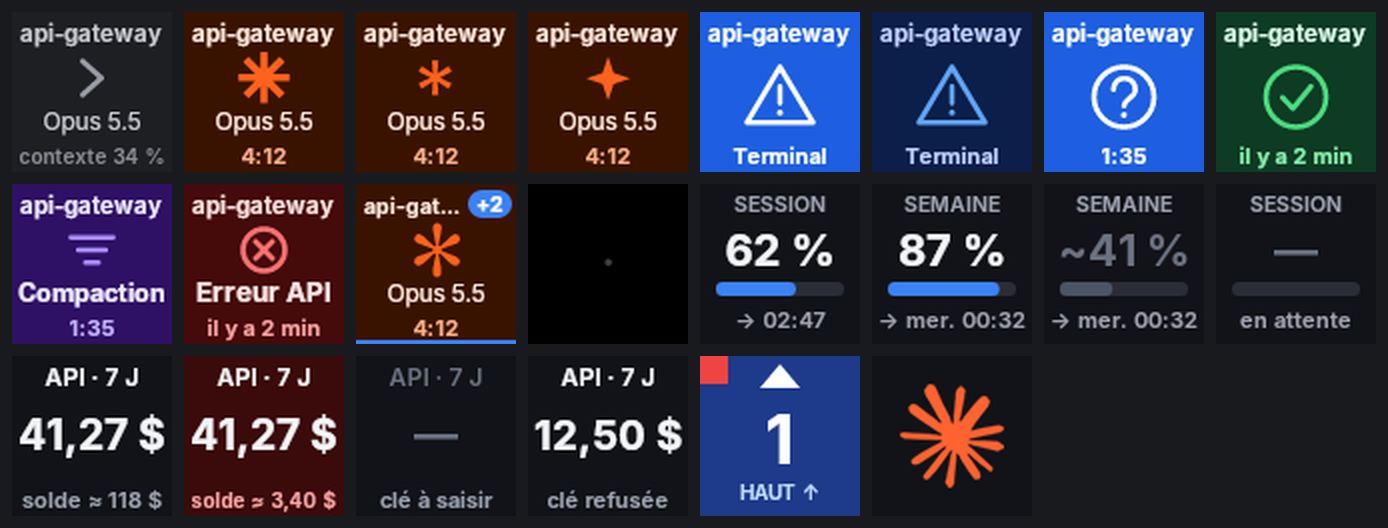
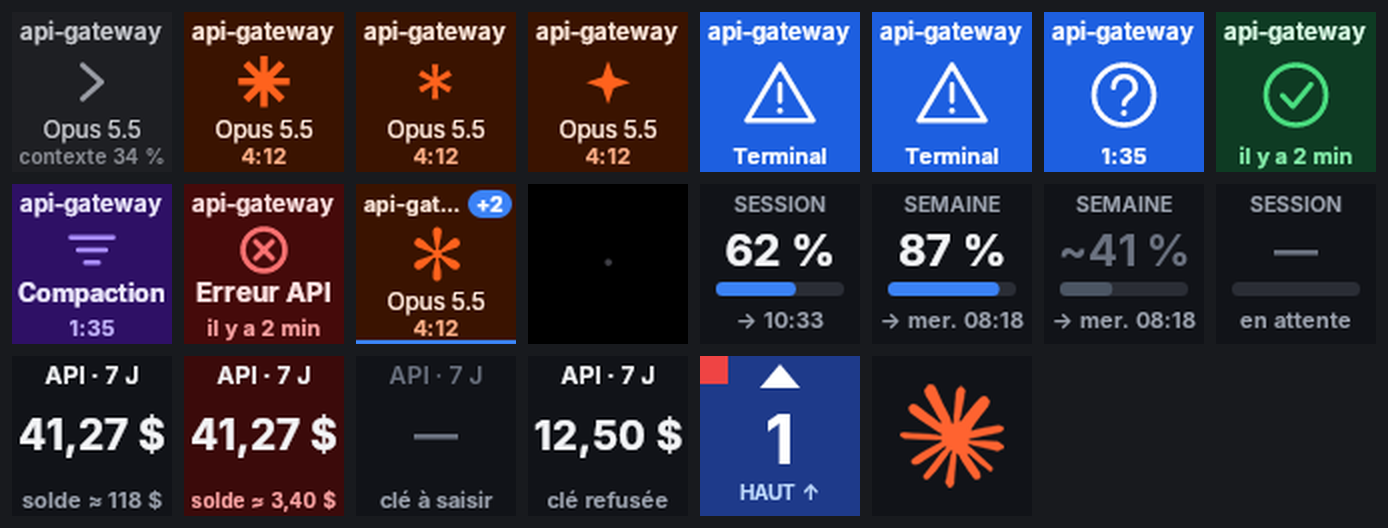
Attente : clignotement limité à 10 s ; espacement des touches (v0.4.3)
- Autoriser / Question : clignotement pendant les 10 premières
  secondes de l'attente, puis bleu vif fixe.
- Nom du modèle rapproché du chrono ; animation et icône descendues de
  2 px pour plus d'air.
- Nom de session remonté de 1,5 px ; icône seule recentrée en
  conséquence.

Claude-Session: https://claude.ai/code/session_01Fx8ktu9DfaPpGyN7FCRNbi

diff --git a/src/ClaudeDeck.Core/Rendering/KeyRenderer.cs b/src/ClaudeDeck.Core/Rendering/KeyRenderer.cs
@@ -72,27 +72,30 @@ public sealed class KeyRenderer : IDisposable
             // Centré s'il tient à taille normale, sinon aligné à gauche (réduit jusqu'à 10,5 px puis tronqué).
             using var probe = new SKFont(_semi, 12f);
             var fits = probe.MeasureText(t) <= titleRight - 4f;
-            DrawText(c, t, _semi, 12f, 10.5f, 4f, titleRight, 15f, v.Foreground, fits ? SKTextAlign.Center : SKTextAlign.Left);
+            DrawText(c, t, _semi, 12f, 10.5f, 4f, titleRight, 13.5f, v.Foreground, fits ? SKTextAlign.Center : SKTextAlign.Left);
         }
 
         // Texte principal : gras par défaut ; graisse normale et plus petit pour le nom du modèle.
         var mainFace = v.MainRegular ? _regular : _bold;
         var mainSize = v.MainRegular ? 12f : 13.5f;
+        // Nom du modèle rapproché du chrono, et animation/icône descendue d'autant : plus d'air autour.
+        var mainBaseline = v.MainRegular ? 63f : 59f;
+        var iconY = v.MainRegular ? 35f : 33f;
         if (v.IconSprite is { } sprite)
         {
-            DrawSprite(c, sprite, 40f, 33f, 28f);
-            if (v.Main is { } m) DrawText(c, m, mainFace, mainSize, 9f, 3f, 77f, 59f, v.Foreground, SKTextAlign.Center);
+            DrawSprite(c, sprite, 40f, iconY, 28f);
+            if (v.Main is { } m) DrawText(c, m, mainFace, mainSize, 9f, 3f, 77f, mainBaseline, v.Foreground, SKTextAlign.Center);
         }
         else if (v.Icon != KeyIcon.None && v.Main is null)
         {
-            // Icône seule (ex. « terminé ») : plus grande, à égale distance du titre (bas des lettres ≈ 18 px)
+            // Icône seule (ex. « terminé ») : plus grande, à égale distance du titre (bas des lettres ≈ 16,5 px)
             // et de la ligne du bas (haut des lettres ≈ 67 px).
-            DrawIcon(c, v.Icon, 40f, 42.5f, 15f, v.Accent, v.SpinnerPhase);
+            DrawIcon(c, v.Icon, 40f, 41.5f, 15f, v.Accent, v.SpinnerPhase);
         }
         else if (v.Icon != KeyIcon.None)
         {
-            DrawIcon(c, v.Icon, 40f, 33f, 10.5f, v.Accent, v.SpinnerPhase);
-            if (v.Main is { } m) DrawText(c, m, mainFace, mainSize, 9f, 3f, 77f, 59f, v.Foreground, SKTextAlign.Center);
+            DrawIcon(c, v.Icon, 40f, iconY, 10.5f, v.Accent, v.SpinnerPhase);
+            if (v.Main is { } m) DrawText(c, m, mainFace, mainSize, 9f, 3f, 77f, mainBaseline, v.Foreground, SKTextAlign.Center);
         }
         else if (v.Main is { } m)
         {

diff --git a/src/ClaudeDeck.Core/Rendering/KeyViewBuilder.cs b/src/ClaudeDeck.Core/Rendering/KeyViewBuilder.cs
@@ -39,6 +39,9 @@ public sealed class KeyViewBuilder
 
     // ───────────────────────────── Sessions ─────────────────────────────
 
+    /// <summary>Durée du clignotement d'une touche en attente (permission, question).</summary>
+    public static readonly TimeSpan BlinkDuration = TimeSpan.FromSeconds(10);
+
     /// <summary>Animation de l'état « travaille ». Null = anneau vectoriel.</summary>
     public SpriteAnimation? WorkingAnimation { get; set; }
 
@@ -54,7 +57,8 @@ public sealed class KeyViewBuilder
         else
         {
             var title = s.DisplayName;
-            var blinkOn = animMs / 500 % 2 == 0; // 1 Hz
+            // Clignotement à 1 Hz pendant les 10 premières secondes d'une attente, puis bleu vif fixe.
+            var blinkOn = now - s.StateSince >= BlinkDuration || animMs / 500 % 2 == 0;
             var phase = (animMs + phaseOffsetMs) % 1000 / 1000.0;
             var sprite = WorkingAnimation?.FrameAt(animMs + phaseOffsetMs);
             view = s.State switch

diff --git a/tests/ClaudeDeck.Tests/RenderingTests.cs b/tests/ClaudeDeck.Tests/RenderingTests.cs
@@ -77,6 +77,10 @@ public class RenderingTests
         var s = new SessionSnapshot("id", "p", null, null, null, SessionState.Waiting, Now, WaitReason.Permission, null, null,
             null, null, 0, null, null, Now, null);
         Assert.NotEqual(b.Session(s, Now, 0).Background, b.Session(s, Now, 500).Background);
+        // Après 10 s d'attente, plus de clignotement : bleu vif fixe.
+        var later = Now.AddSeconds(11);
+        Assert.Equal(b.Session(s, later, 0).Background, b.Session(s, later, 500).Background);
+        Assert.Equal(b.Session(s, Now, 0).Background, b.Session(s, later, 500).Background);
     }
 
     [Theory]

diff --git a/README.md b/README.md
@@ -25,7 +25,7 @@ Une session garde sa touche tant qu'elle reste affichée ; la pastille « +N » 
 |---|---|---|
 | Au repos | gris, invite « > », modèle et remplissage du contexte (« ≈ » si estimé) | `SessionStart`, Échap (`Notification` idle) |
 | Travaille | orange très sombre, astérisque animé (2 s, déphasé d'une touche à l'autre), modèle (« Opus 5.5 ») et durée du tour | `UserPromptSubmit`, `PreToolUse`, `PostToolUse` |
-| **Autoriser / Question** | **bleu clignotant**, icône seule (triangle ou « ? ») | `PermissionRequest`, `Notification` (permission, elicitation), `AskUserQuestion` |
+| **Autoriser / Question** | **bleu**, clignotant pendant 10 s puis fixe, icône seule (triangle ou « ? ») | `PermissionRequest`, `Notification` (permission, elicitation), `AskUserQuestion` |
 | Terminé | vert, coche seule, « il y a 3 min » | `Stop` |
 | Compaction | violet | `PreCompact` → `PostCompact` |
 | Erreur API | rouge | `StopFailure` |
